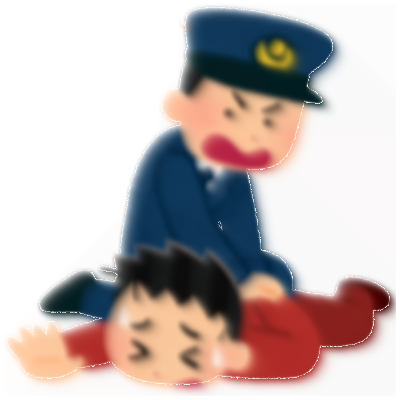
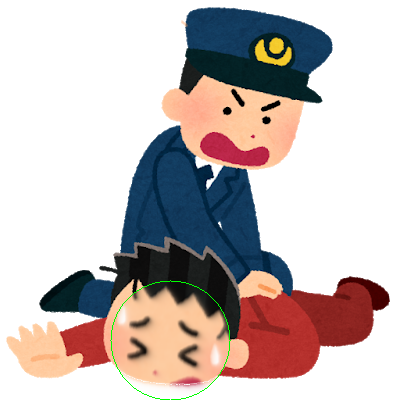
kirinuki

Changed region(s): [[0.0, 0.0, 0.99, 1.0], [0.66, 0.81, 0.72, 0.84]]

diff --git a/class_three/3rd_class/bokasi_sikaku.py b/class_three/3rd_class/bokasi_sikaku.py
@@ -1,0 +1,32 @@
+# coding: utf-8
+import cv2
+import numpy as np
+def bokasi(image,height,width):
+ img=image.copy()
+ for w in range(3,width-4):
+  for h in range(3,height-4):
+   image[h,w,0] = np.sum(image[h-2:h+2,w-2:w+2,0])/16
+   image[h,w,1] = np.sum(image[h-2:h+2,w-2:w+2,1])/16
+   image[h,w,2] = np.sum(image[h-2:h+2,w-2:w+2,2])/16
+ #円状の型を作る
+ mask = np.full((height,width,1),0,dtype=np.uint8)
+ cv2.rectangle(mask,(110,290),(230,390),(255),-1)
+ #元の画像の円の部分以外を切り抜き
+ mask_inv = cv2.bitwise_not(mask)
+ img1 = cv2.bitwise_and(img,img,mask=mask_inv)
+ #ぼかした画像の円の部分を切り抜き
+ img = cv2.bitwise_and(image,image,mask=mask)
+ #切り抜いた２つの画像を合成
+ image = cv2.add(img1,img)
+
+ cv2.rectangle(image,(110,290),(230,390),(0,255,0,255)) 
+ return image
+
+image = cv2.imread('./hannin.png',-1)
+height = image.shape[0] 
+width = image.shape[1]
+image[np.where((image[0:height,0:width,3] == 0))] = [255,255,255,255] 
+image = bokasi(image,height,width)
+cv2.imshow('bokasi',image)
+cv2.waitKey()
+cv2.imwrite('sikaku_bokasi.png',image)

diff --git a/class_three/3rd_class/bokasi_circle.py b/class_three/3rd_class/bokasi_circle.py
@@ -1,0 +1,31 @@
+# coding: utf-8
+import cv2
+import numpy as np
+def bokasi(image,height,width):
+ img=image.copy() 
+ for w in range(3,width-4):
+  for h in range(3,height-4):
+   image[h,w,0] = np.sum(image[h-2:h+2,w-2:w+2,0])/16
+   image[h,w,1] = np.sum(image[h-2:h+2,w-2:w+2,1])/16
+   image[h,w,2] = np.sum(image[h-2:h+2,w-2:w+2,2])/16
+ #円状の型を作る
+ mask = np.full((height,width,1),0,dtype=np.uint8)
+ cv2.circle(mask,(170,340),60,(255),-1)
+ #元の画像の円の部分以外を切り抜き
+ mask_inv = cv2.bitwise_not(mask)
+ img1 = cv2.bitwise_and(img,img,mask=mask_inv)
+ #ぼかした画像の円の部分を切り抜き
+ img = cv2.bitwise_and(image,image,mask=mask)
+ #切り抜いた２つの画像を合成
+ image = cv2.add(img1,img)
+ cv2.circle(image,(170,340),60,(0,255,0,255))
+ return image
+
+image = cv2.imread('./hannin.png',-1)
+height = image.shape[0] 
+width = image.shape[1]
+image[np.where((image[0:height,0:width,3] == 0))] = [255,255,255,255] 
+image = bokasi(image,height,width)
+cv2.imshow('bokasi',image)
+cv2.waitKey()
+cv2.imwrite('bokasi.png',image)
